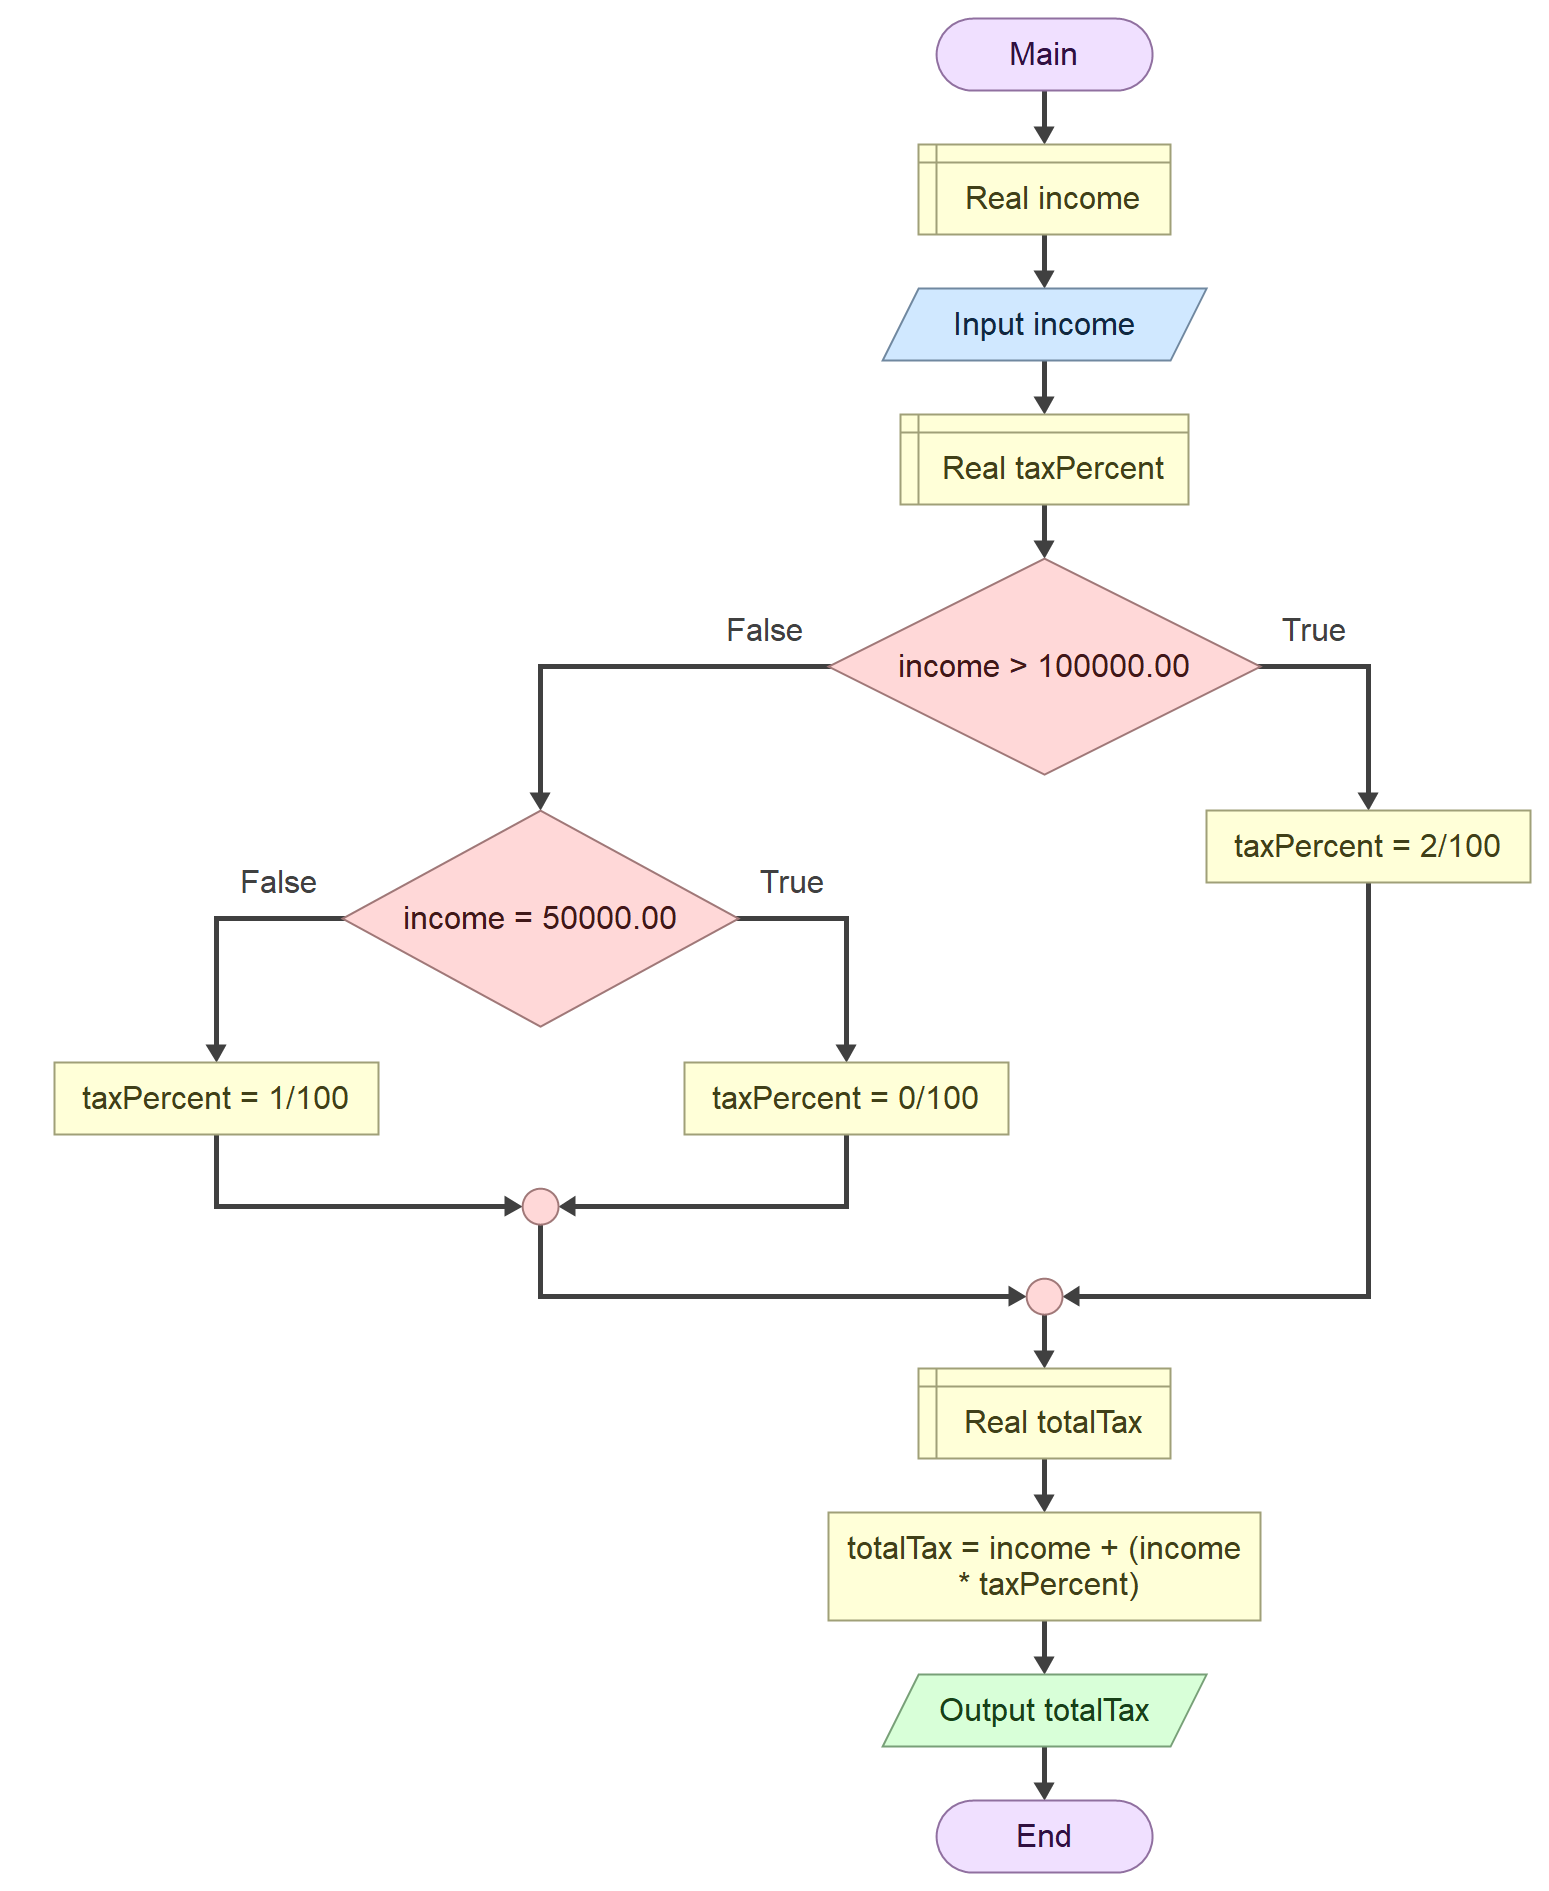
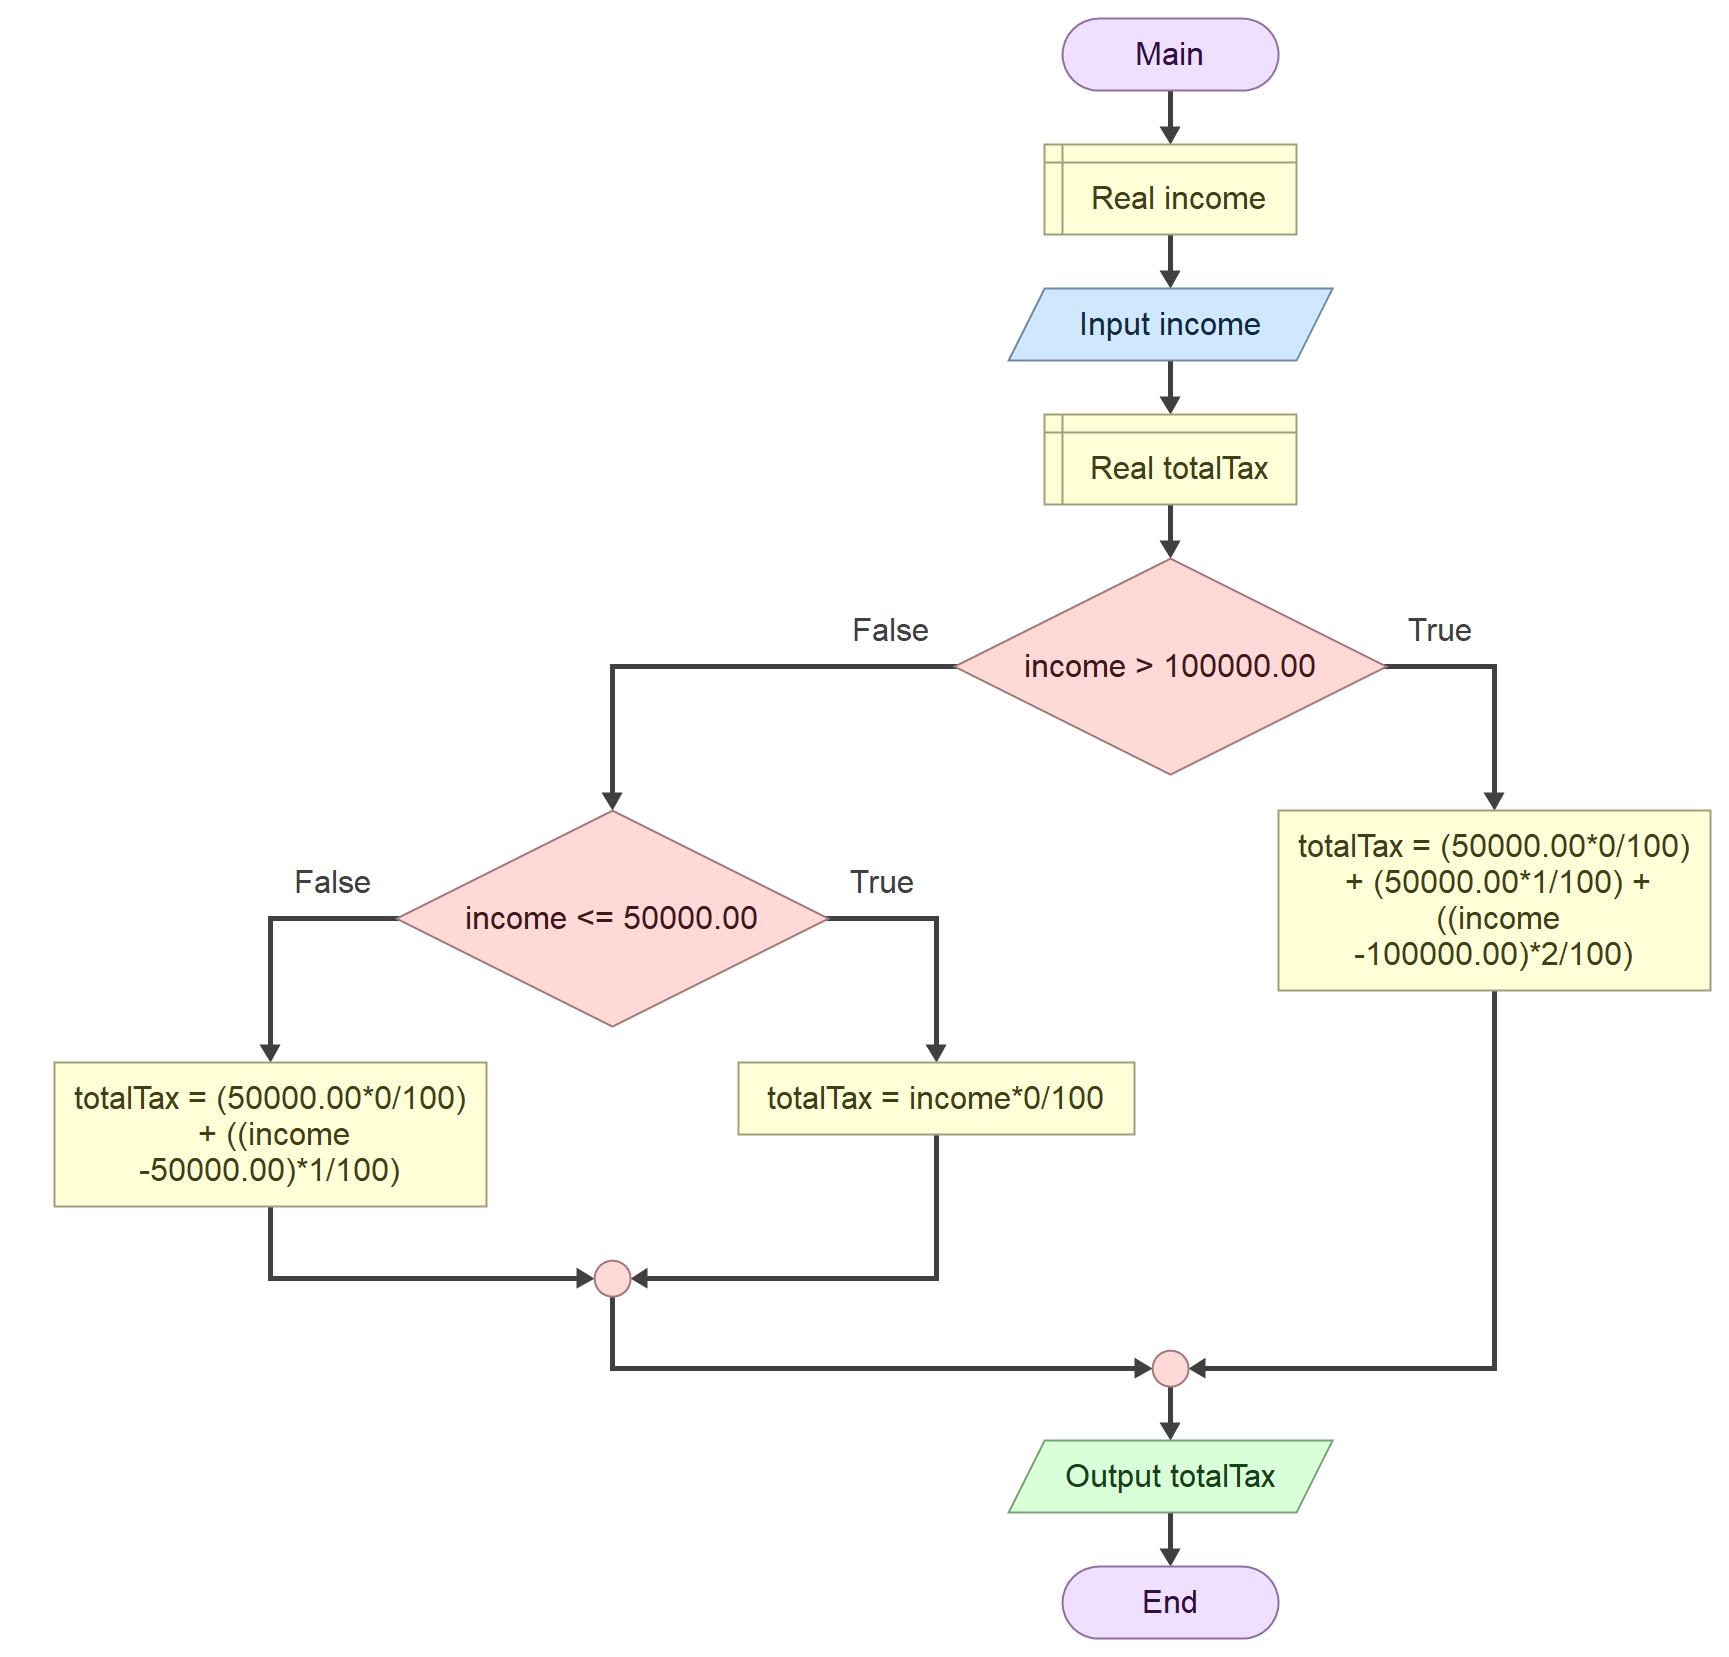
lab04

Changed region(s): [[0.031, 0.0, 0.9916, 1.0], [0.3099, 0.7387, 0.4028, 0.831], [0.5888, 0.9541, 0.6198, 0.9849]]

diff --git a/labs/lab04/exercise5/lab-4-5.py b/labs/lab04/exercise5/lab-4-5.py
@@ -1,0 +1,18 @@
+scoreA = int(input())
+scoreB = int(input())
+if scoreA == scoreB:
+    pointsA = 1
+    pointsB = 1
+else:
+    if scoreA > scoreB:
+        pointsA = 3
+        pointsB = 0
+        if scoreB == 0:
+            pointsA = pointsA + 1
+    else:
+        pointsB = 3
+        pointsA = 0
+        if scoreA == 0:
+            pointsB = pointsB + 1
+print(pointsA)
+print(pointsB)

diff --git a/labs/lab04/exercise6/lab-4-6.py b/labs/lab04/exercise6/lab-4-6.py
@@ -1,0 +1,12 @@
+minutesBefore = int(input())
+membership = (input().lower == 'true')
+if minutesBefore > 30:
+    price = 80 - 15
+else:
+    if minutesBefore < 0:
+        price = 0
+    else:
+        price = 80
+if membership:
+    price = price - price * 15 / 100
+print(price)

diff --git a/labs/lab04/exercise3/lab-4-3.py b/labs/lab04/exercise3/lab-4-3.py
@@ -1,0 +1,11 @@
+totalHours = int(input())
+if totalHours > 5:
+    parkingFee = 2 * 0 + 3 * 2.0 + totalHours - 5 * 3.0
+    if parkingFee > 30.0:
+        parkingFee = 30.0
+else:
+    if totalHours <= 2:
+        parkingFee = 0
+    else:
+        parkingFee = 2 * 0 + totalHours - 2 * 2.0
+print(parkingFee)

diff --git a/labs/lab04/exercise4/lab-4-4.py b/labs/lab04/exercise4/lab-4-4.py
@@ -1,0 +1,10 @@
+weight = float(input())
+ticketPrice = float(input())
+if weight == 0:
+    finalPrice = ticketPrice - 10.0
+else:
+    if weight > 15:
+        finalPrice = ticketPrice + weight - 15 * 4.0
+    else:
+        finalPrice = ticketPrice
+print(finalPrice)

diff --git a/labs/lab04/exercise1/lab-4-1.py b/labs/lab04/exercise1/lab-4-1.py
@@ -1,10 +1,9 @@
 kwhConsumed = int(input())
 if kwhConsumed > 200:
-    usageCharges = 0.75
+    totalBill = 100 * 0.3 + 100 * 0.5 + kwhConsumed - 200 * 0.75
 else:
-    if kwhConsumed == 100:
-        usageCharges = 0.3
+    if kwhConsumed <= 100:
+        totalBill = kwhConsumed * 0.3
     else:
-        usageCharges = 0.5
-totalBill = kwhConsumed * usageCharges
+        totalBill = 100 * 0.3 + kwhConsumed - 100 * 0.5
 print(totalBill)

diff --git a/labs/lab04/exercise2/lab-4-2.py b/labs/lab04/exercise2/lab-4-2.py
@@ -1,10 +1,9 @@
 income = float(input())
 if income > 100000.0:
-    taxPercent = float(2) / 100
+    totalTax = 50000.0 * 0 / 100 + 50000.0 * 1 / 100 + income - 100000.0 * 2 / 100
 else:
-    if income == 50000.0:
-        taxPercent = float(0) / 100
+    if income <= 50000.0:
+        totalTax = income * 0 / 100
     else:
-        taxPercent = float(1) / 100
-totalTax = income + income * taxPercent
+        totalTax = 50000.0 * 0 / 100 + income - 50000.0 * 1 / 100
 print(totalTax)